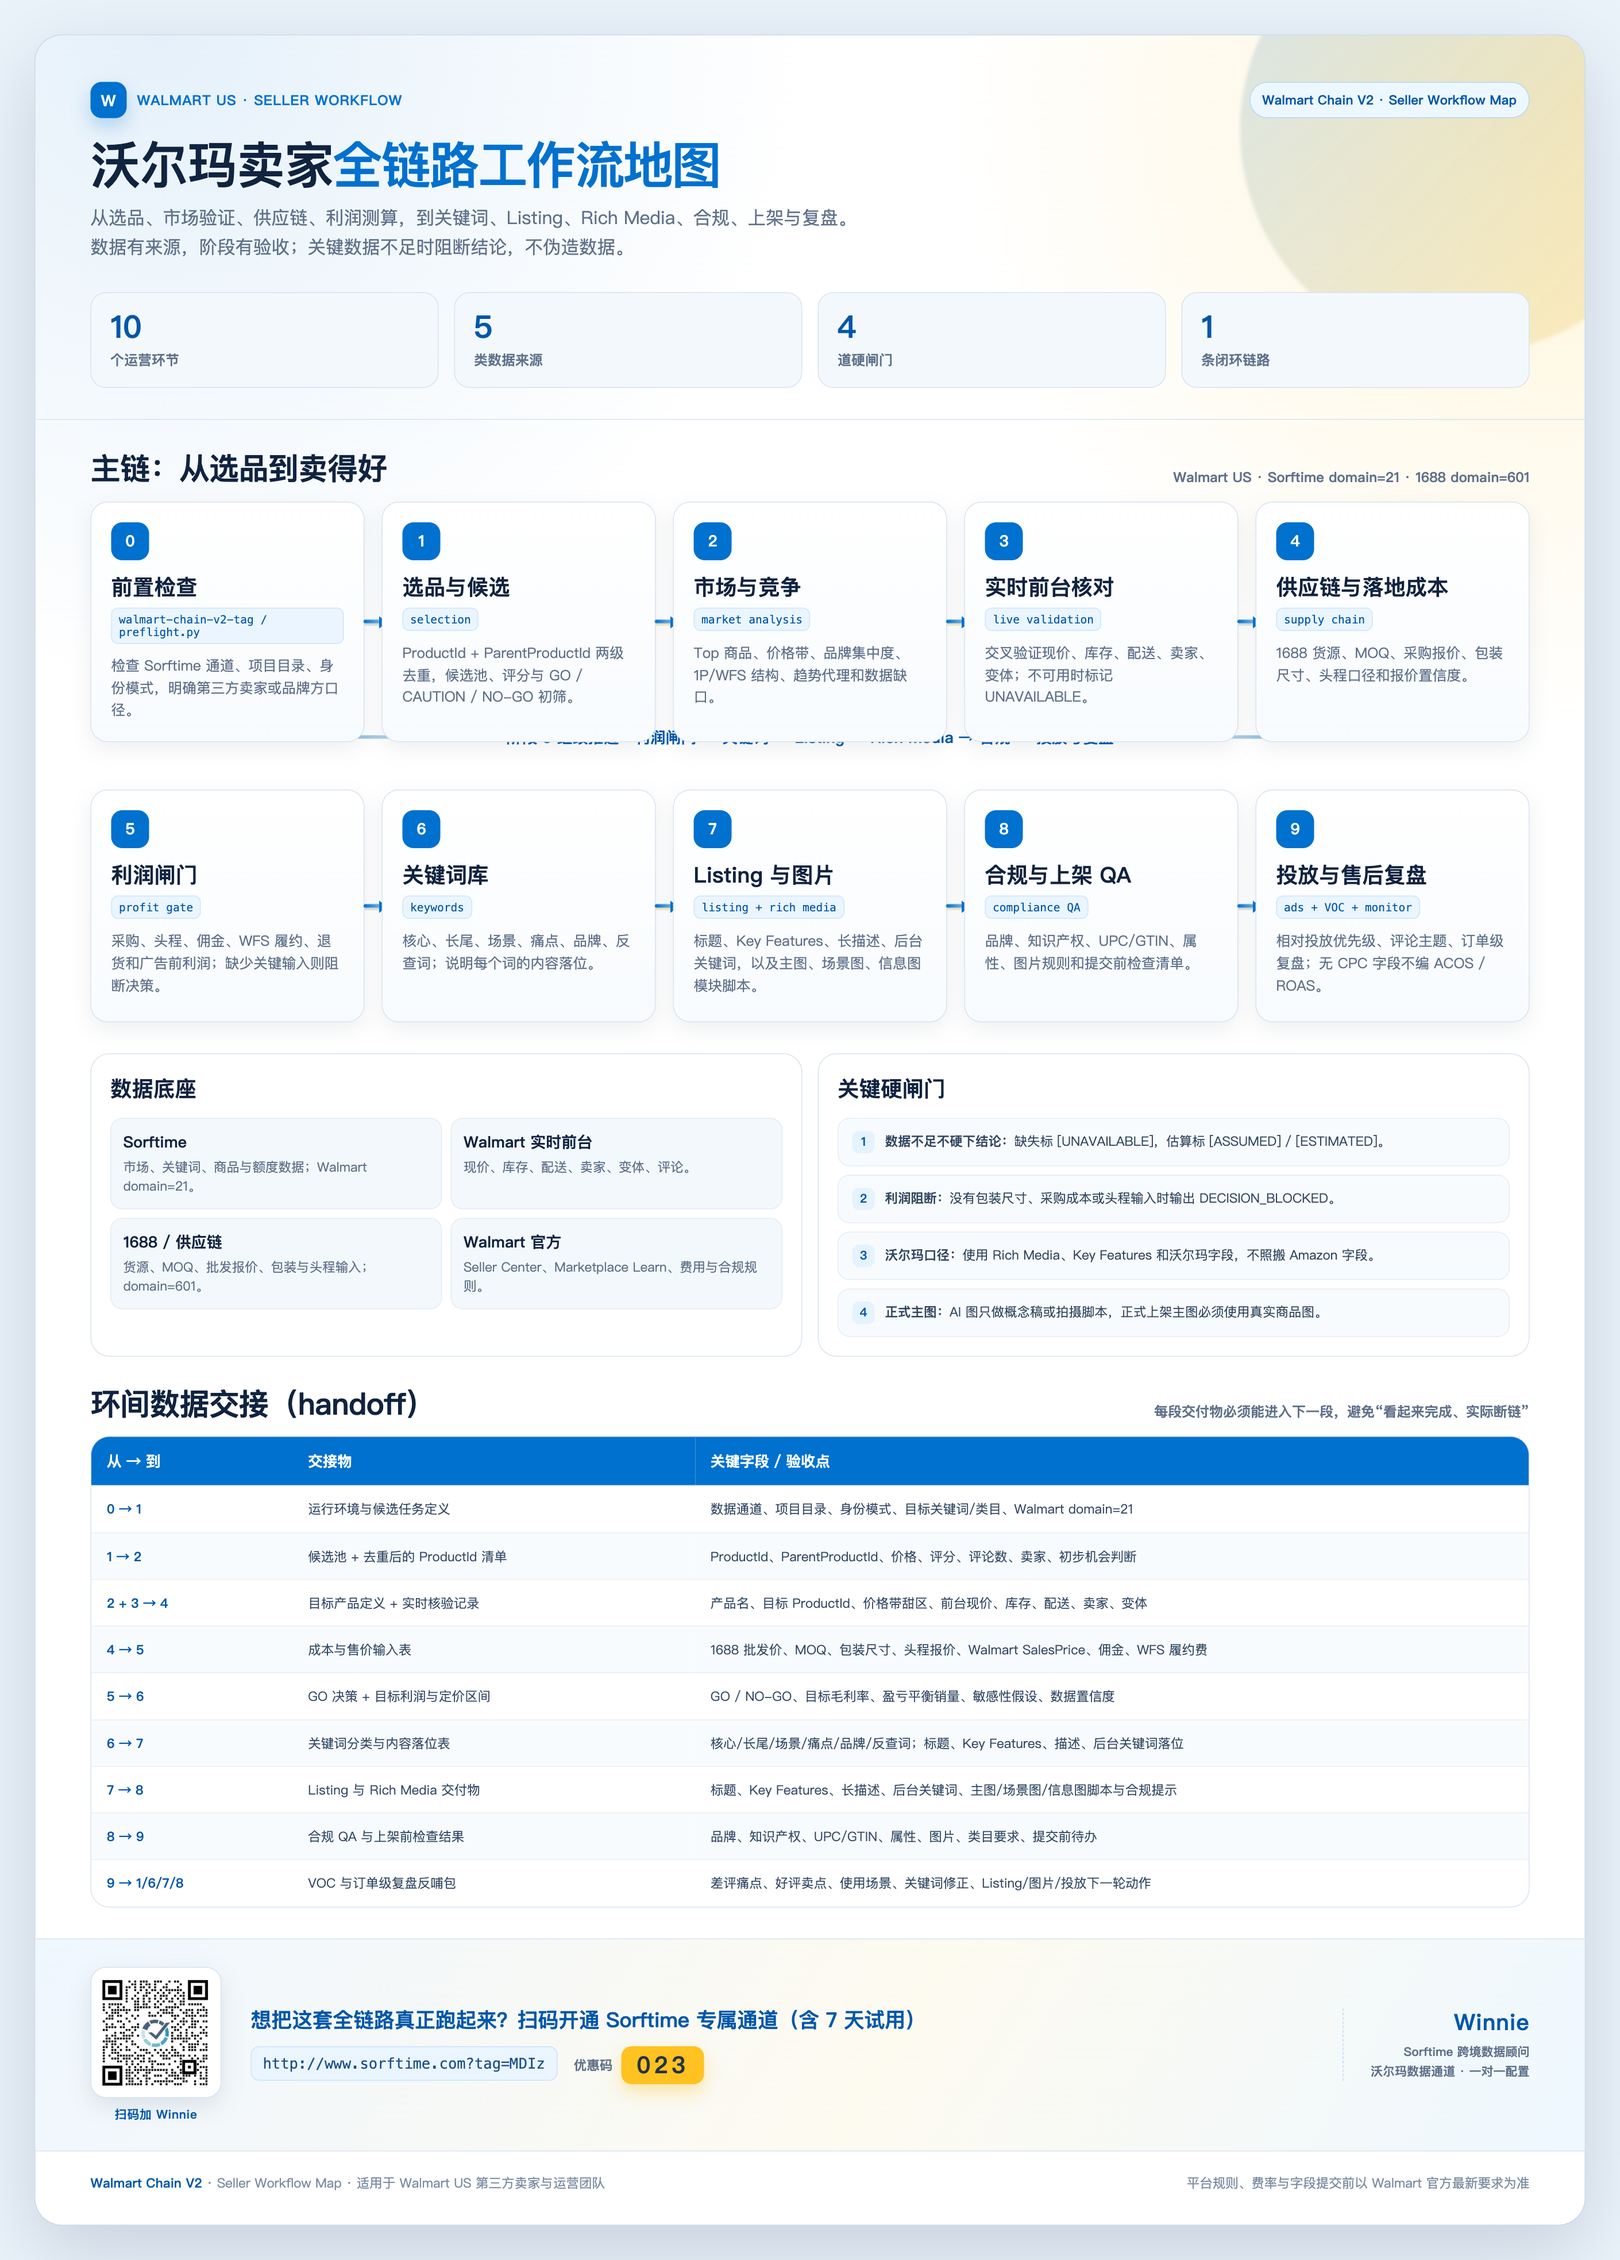
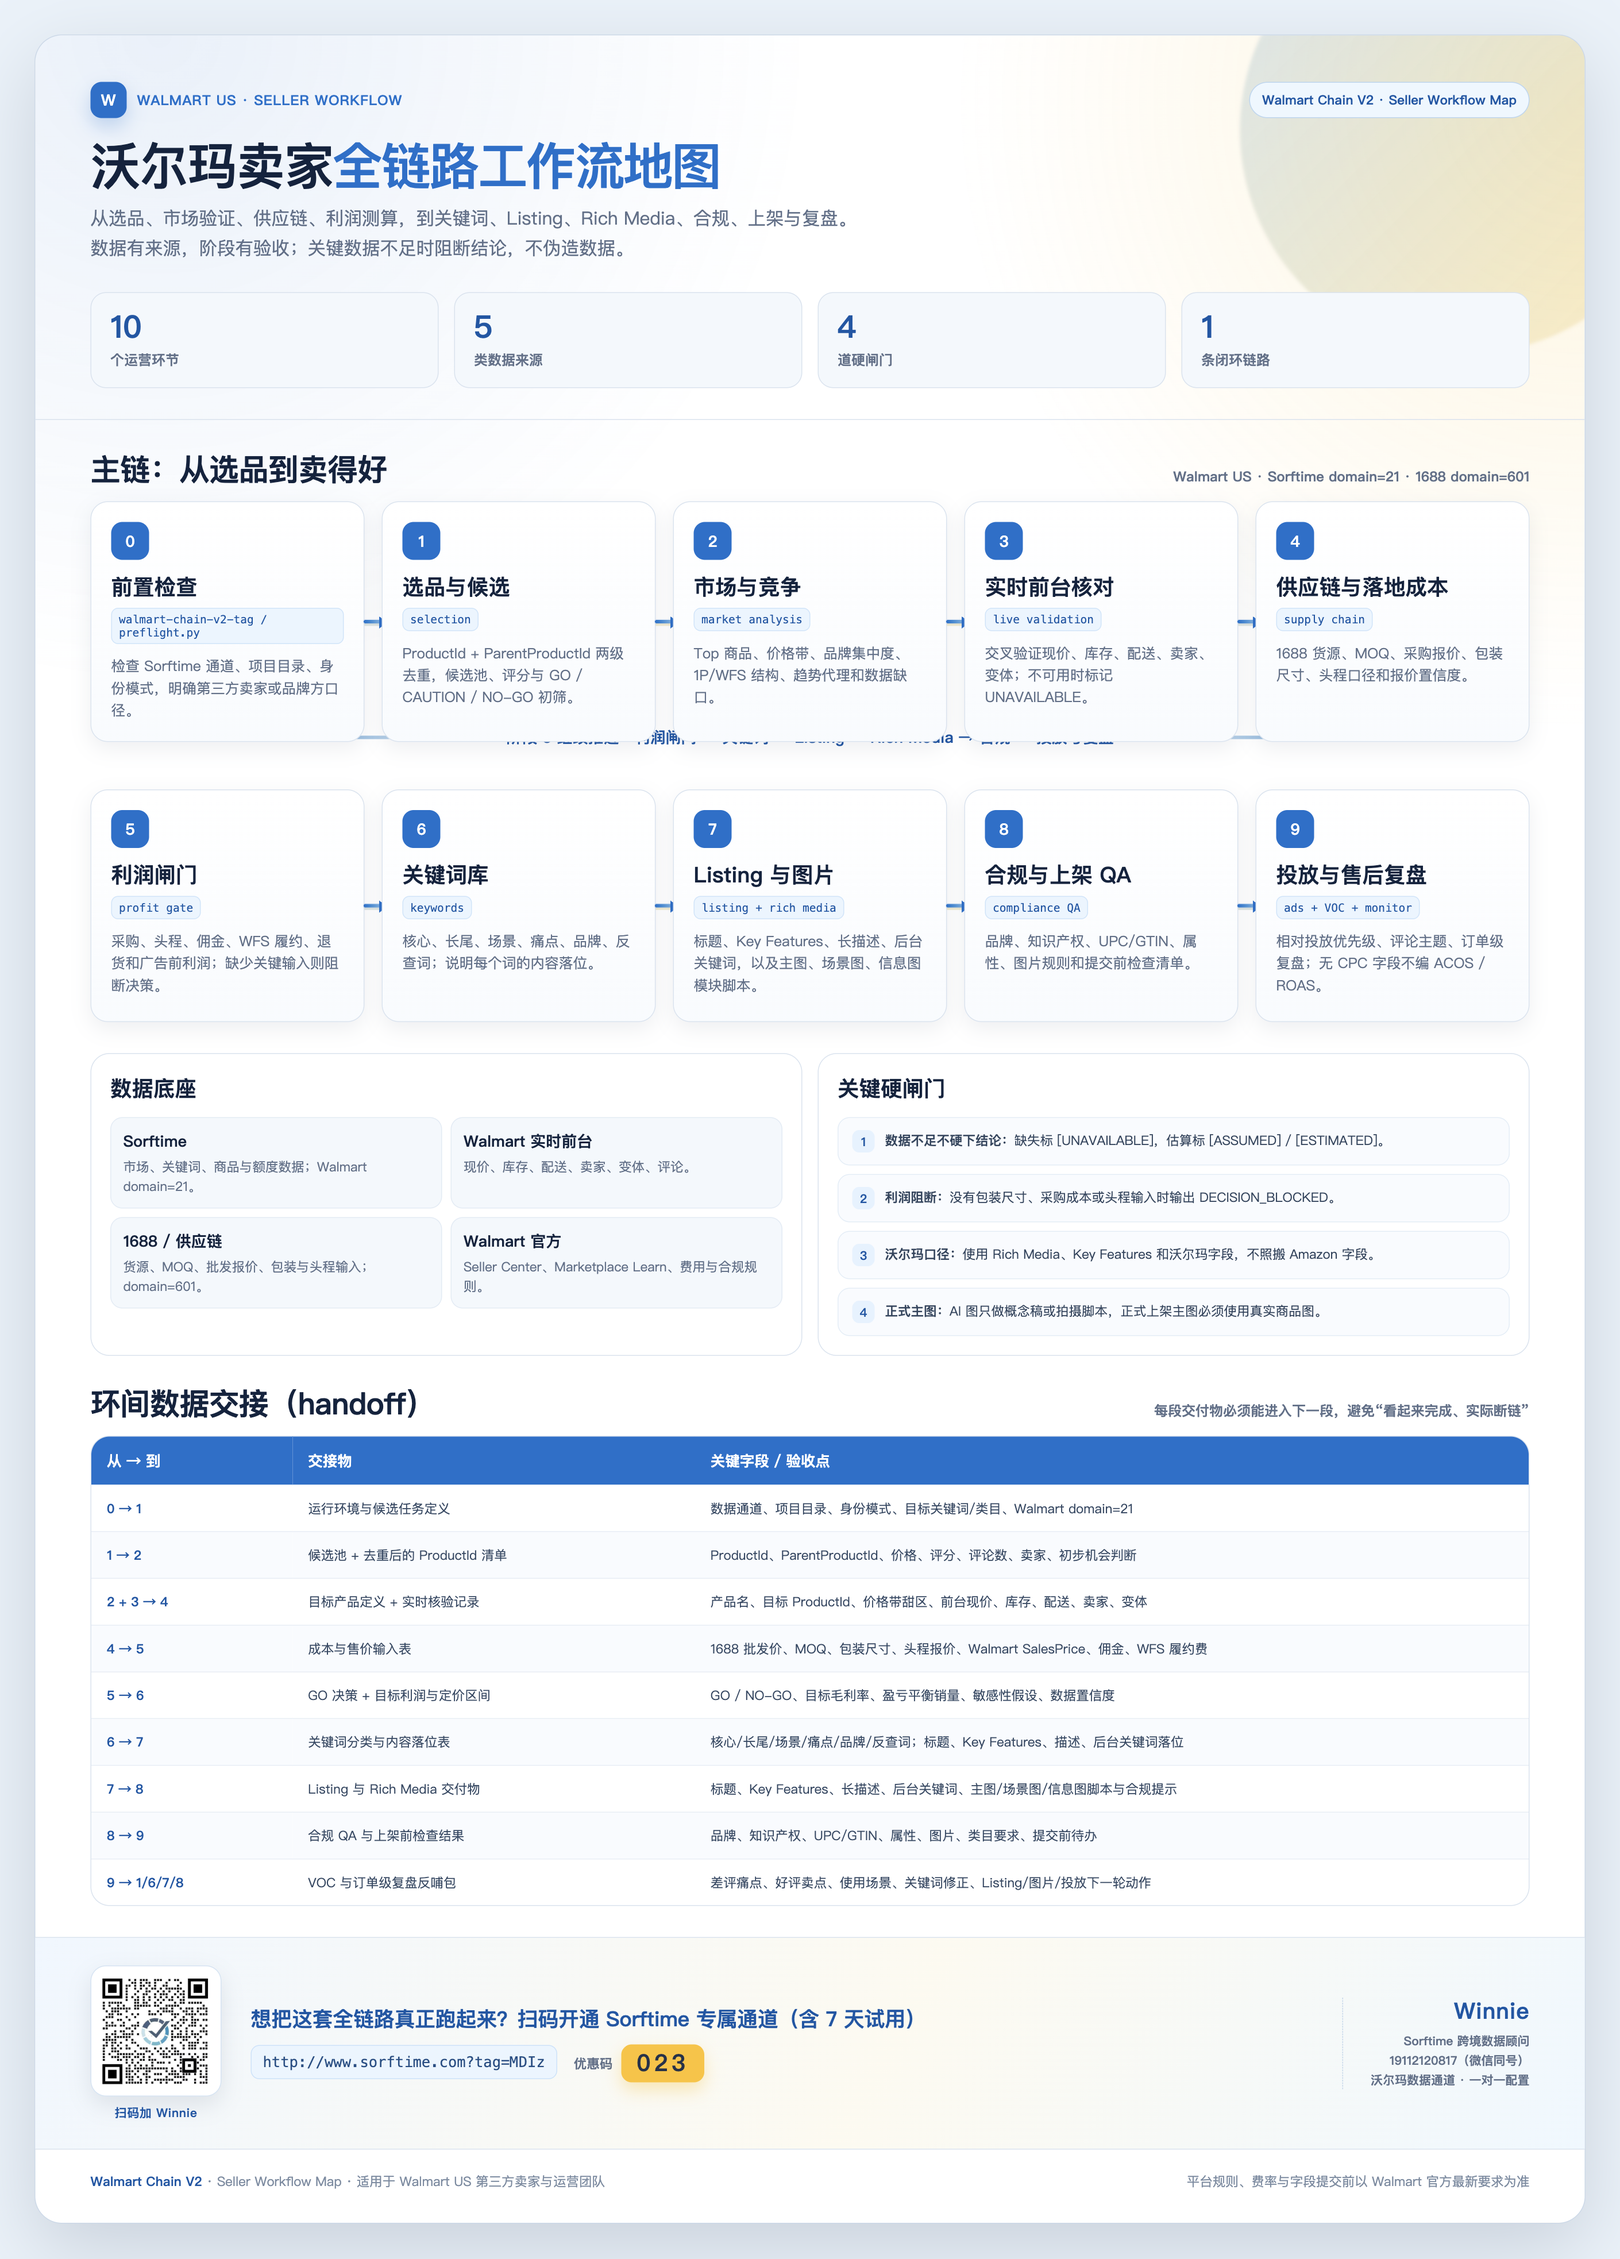
docs: update contact to 19112120817 and publish Walmart v2.0.1
Synchronize the public contact phone, installation docs, release notes, and Walmart workflow map.

diff --git a/RELEASE_NOTES.md b/RELEASE_NOTES.md
@@ -1,32 +1,29 @@
-# 公开发布 2026.10.29
+# 公开发布 2026.11.25
 
-首次公开发布 Sorftime Winnie 的两个跨境卖家 Skill 包。
+本次更新统一了公开包中的联系人信息。
 
-## Amazon 卖家全链路 Skill
+## 联系方式
 
-- 18 个 Skill，覆盖 Sorftime 数据层、全链路编排、市场分析、选品、供应链与利润、关键词、Listing、图片与 A+、广告、VOC/竞品、专利风控。
-- 包含安装器、环境自检、文件完整性校验、数据证据台账、工作流地图和使用入口。
-- 包内运行守卫要求取数前检查凭证与余额；缺失数据必须标记，不允许编造或静默跳过。
+- Winnie 19112120817（微信同号）
+- Sorftime 服务入口：https://open.sorftime.com/home?tag=MDIz
+- 优惠码：`023`
 
-## Walmart US 全链路 Skill
+## Walmart US 全链路 v2.0.1
 
-- 主流程覆盖选品、市场、实时前台核验、供应链、利润、关键词、Listing、Rich Media、合规、投放与复盘。
-- 4 个配套 Skill 分别用于 Walmart 前台关键词搜索、商品详情、评论采集与评论真实性检查。
-- 固定 Walmart US，Sorftime `domain=21`、1688 `domain=601`。
-- 明确降级边界：不含 Walmart CPC 出价能力，不使用恒为 0 的 `WFSFee` 字段做利润判断。
+- 主 Skill、README、START-HERE 和商业入口说明补充联系人电话。
+- 4 个配套 Skill 的凭证异常提示统一补充 Winnie 联系方式。
+- 额度守卫与预检脚本的异常输出增加联系电话。
+- 宣发地图 HTML 与 PNG 同步加入 `19112120817`。
+- `public_release_manifest.json` 升级为 `2.0.1`，增加联系人字段。
 
-## 安全与完整性
+## Amazon 卖家全链路
 
-- ZIP 完整性检查通过。
-- Amazon 包内置校验结果：`skills=18 issues=0`。
-- 未发现 `.env`、私钥、证书、实际 API Key、Cookie 或 Account-SK。
+- 对包内所有联系人信息做了复核，现有 59 处手机号均为 `19112120817`，无需修改。
+- 本次继续发布同一份经过校验的 Amazon ZIP，内容未变化。
+
+## 完整性
+
+- Amazon 包内校验：`skills=18 issues=0`。
+- Walmart 包内测试与 5 个 Skill 安装检查通过。
 - 两个 ZIP 的 SHA-256 值见 `SHA256SUMS.txt`。
-- 包内第三方组件继续遵守各自许可证。
-
-## 已知边界
-
-- 使用数据能力需要使用者自己的 Sorftime 账号与额度。
-- 生图需要使用者自行配置兼容的 Provider Key。
-- 专利结果是风险初筛，不是法律意见。
-- Walmart 费用与平台规则以提交时的官方最新规则为准。
 

diff --git a/README.md b/README.md
@@ -7,7 +7,7 @@
 | 技能包 | 内容 | 下载 |
 |---|---|---|
 | Amazon 卖家全链路 Skill | 18 个 Skill，覆盖数据层、市场、选品、供应链、利润、关键词、Listing、图片/A+、广告、VOC、专利风控 | [下载 ZIP](https://github.com/winniewinnie-tt/amazon-walmart-seller-skills/releases/latest/download/Sorftime-Amazon-Fullchain-Skill-Winnie-2026.10.29.zip) |
-| Walmart US 全链路 Skill | 1 个主流程 Skill + 4 个前台核验配套 Skill | [下载 ZIP](https://github.com/winniewinnie-tt/amazon-walmart-seller-skills/releases/latest/download/Sorftime-Walmart-Fullchain-Skill-Winnie-v2.0.0.zip) |
+| Walmart US 全链路 Skill | 1 个主流程 Skill + 4 个前台核验配套 Skill | [下载 ZIP](https://github.com/winniewinnie-tt/amazon-walmart-seller-skills/releases/latest/download/Sorftime-Walmart-Fullchain-Skill-Winnie-v2.0.1.zip) |
 
 发布页：[查看全部版本、校验值和更新说明](https://github.com/winniewinnie-tt/amazon-walmart-seller-skills/releases)
 
@@ -26,7 +26,7 @@ python3 install.py --dest ~/.codex/skills
 ### Walmart US
 
 ```bash
-unzip Sorftime-Walmart-Fullchain-Skill-Winnie-v2.0.0.zip
+unzip Sorftime-Walmart-Fullchain-Skill-Winnie-v2.0.1.zip
 bash walmart-chain-v2-tag/install.sh ~/.codex/skills
 cp -R walmart-chain-v2-tag/companion-skills/* ~/.codex/skills/
 ```
@@ -83,5 +83,6 @@ Sorftime 注册、开通、查看账户或额度不足时：
 
 - https://open.sorftime.com/home?tag=MDIz
 - 优惠码：`023`
+- 联系方式：Winnie `19112120817`（微信同号）
 
 本仓库用于公开发布与下载，不接收或收集账号密钥。

diff --git a/INSTALL.md b/INSTALL.md
@@ -55,7 +55,7 @@ python3 verify_installed.py --dest ~/.codex/skills
 ### macOS / Linux
 
 ```bash
-unzip Sorftime-Walmart-Fullchain-Skill-Winnie-v2.0.0.zip
+unzip Sorftime-Walmart-Fullchain-Skill-Winnie-v2.0.1.zip
 bash walmart-chain-v2-tag/install.sh ~/.codex/skills
 cp -R walmart-chain-v2-tag/companion-skills/* ~/.codex/skills/
 ```
@@ -65,7 +65,7 @@ cp -R walmart-chain-v2-tag/companion-skills/* ~/.codex/skills/
 ### Windows PowerShell
 
 ```powershell
-Expand-Archive .\Sorftime-Walmart-Fullchain-Skill-Winnie-v2.0.0.zip -DestinationPath .
+Expand-Archive .\Sorftime-Walmart-Fullchain-Skill-Winnie-v2.0.1.zip -DestinationPath .
 New-Item -ItemType Directory -Force "$HOME\.codex\skills" | Out-Null
 Copy-Item -Recurse .\walmart-chain-v2-tag "$HOME\.codex\skills\walmart-chain-v2-tag"
 Copy-Item -Recurse .\walmart-chain-v2-tag\companion-skills\* "$HOME\.codex\skills"
@@ -79,6 +79,8 @@ python3 scripts/preflight_guard.py --channel auto --required 1 --json
 ```
 
 有 Sorftime MCP 时，也可以在 Agent 中先调用 `common_usage_query` 检查余额。
+
+联系方式：Winnie `19112120817`（微信同号）。
 
 ## Claude Code 与 WorkBuddy
 
@@ -120,4 +122,3 @@ cp -R walmart-chain-v2-tag/companion-skills/* ~/.workbuddy/skills/
 ### ZIP 文件名在 Windows 显示乱码
 
 优先使用 7-Zip、Bandizip 或 Windows 11 文件资源管理器解压。解压后运行 `verify_package.py` 检查 Amazon 包完整性。
-
